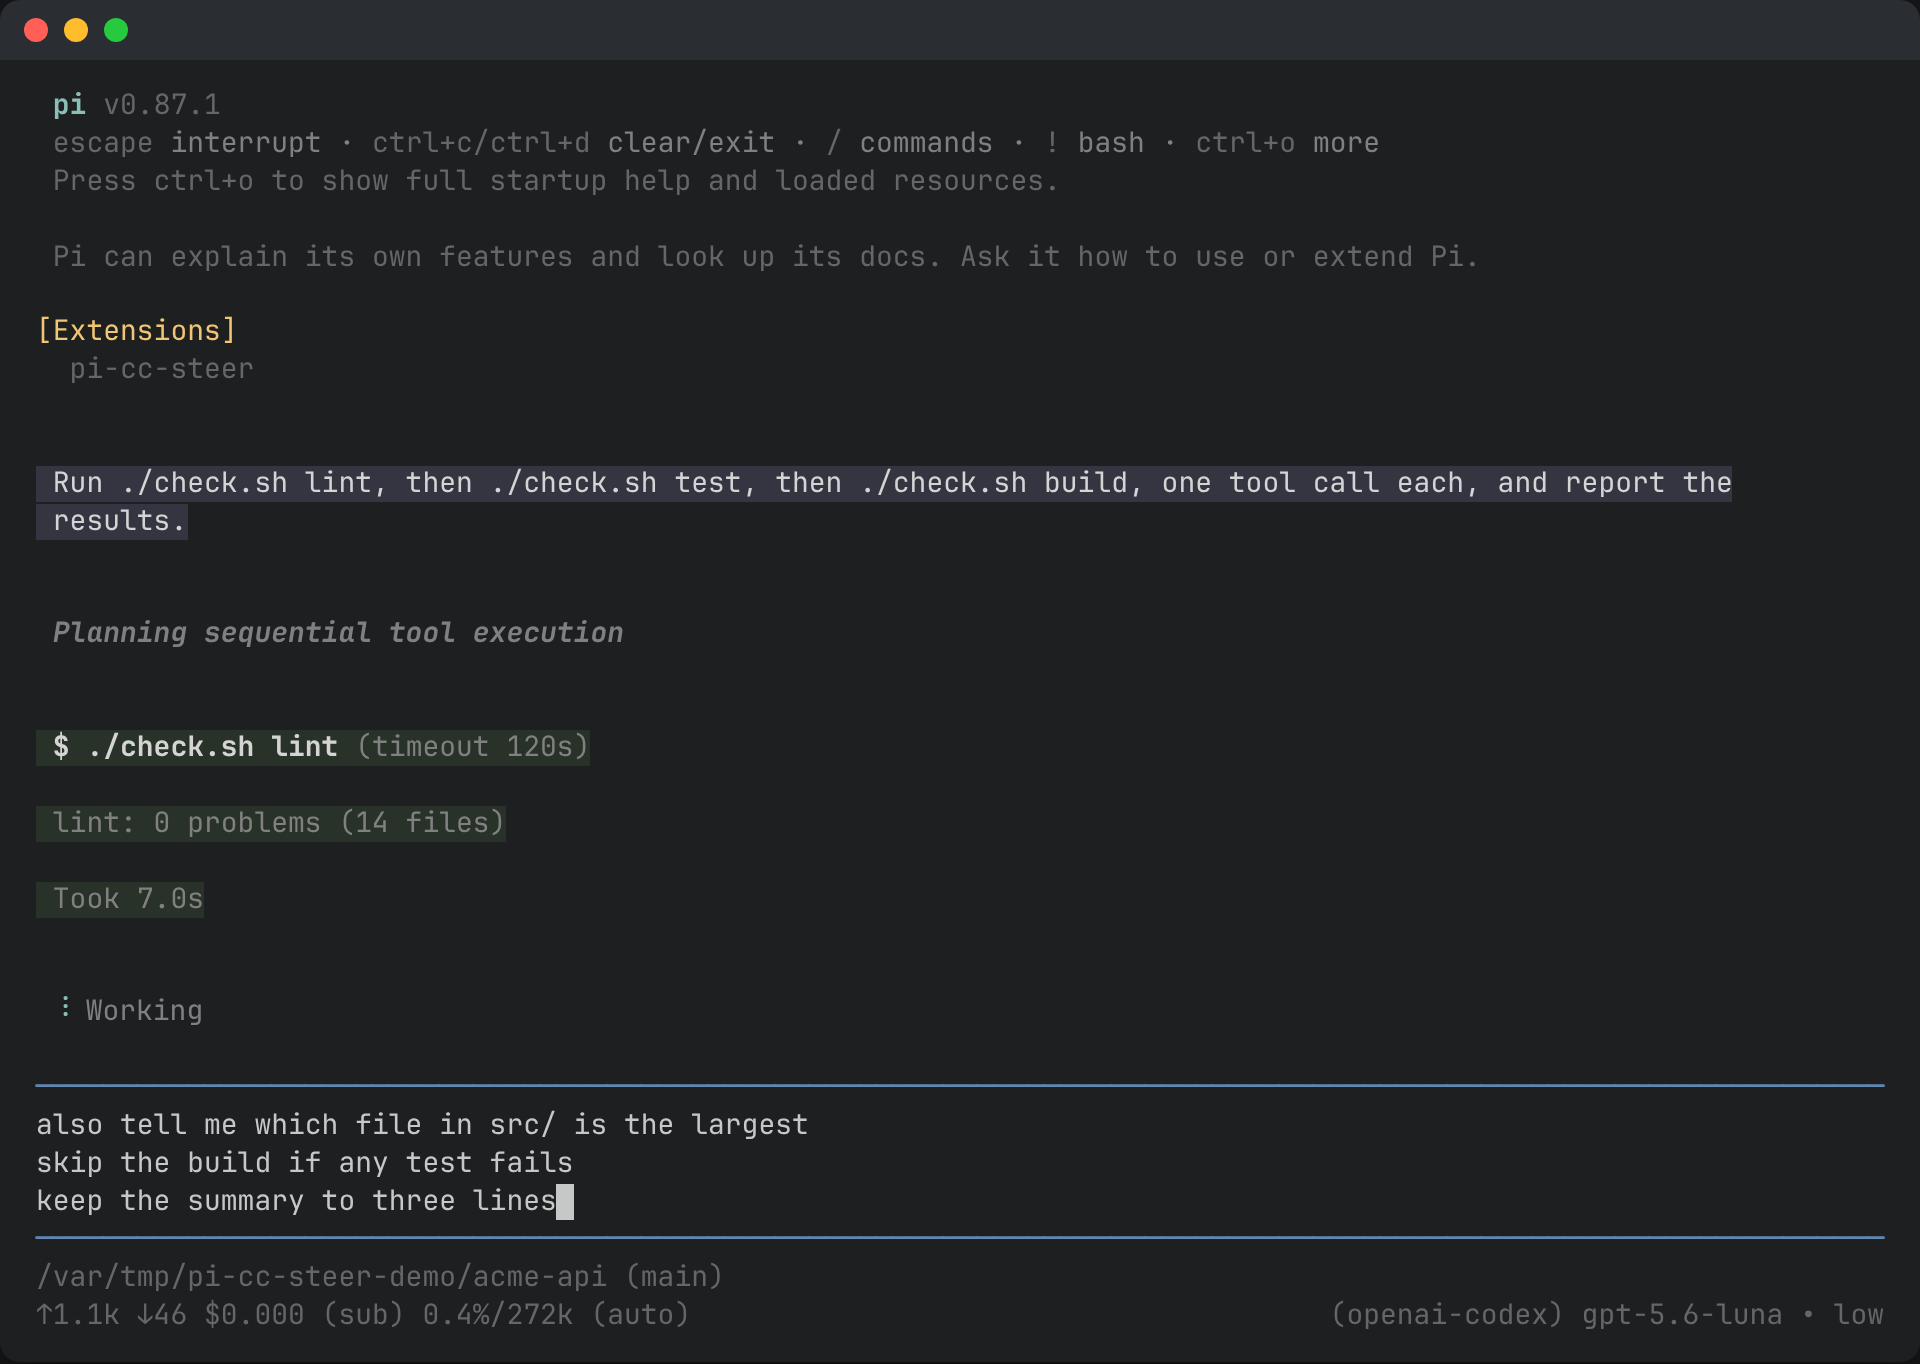
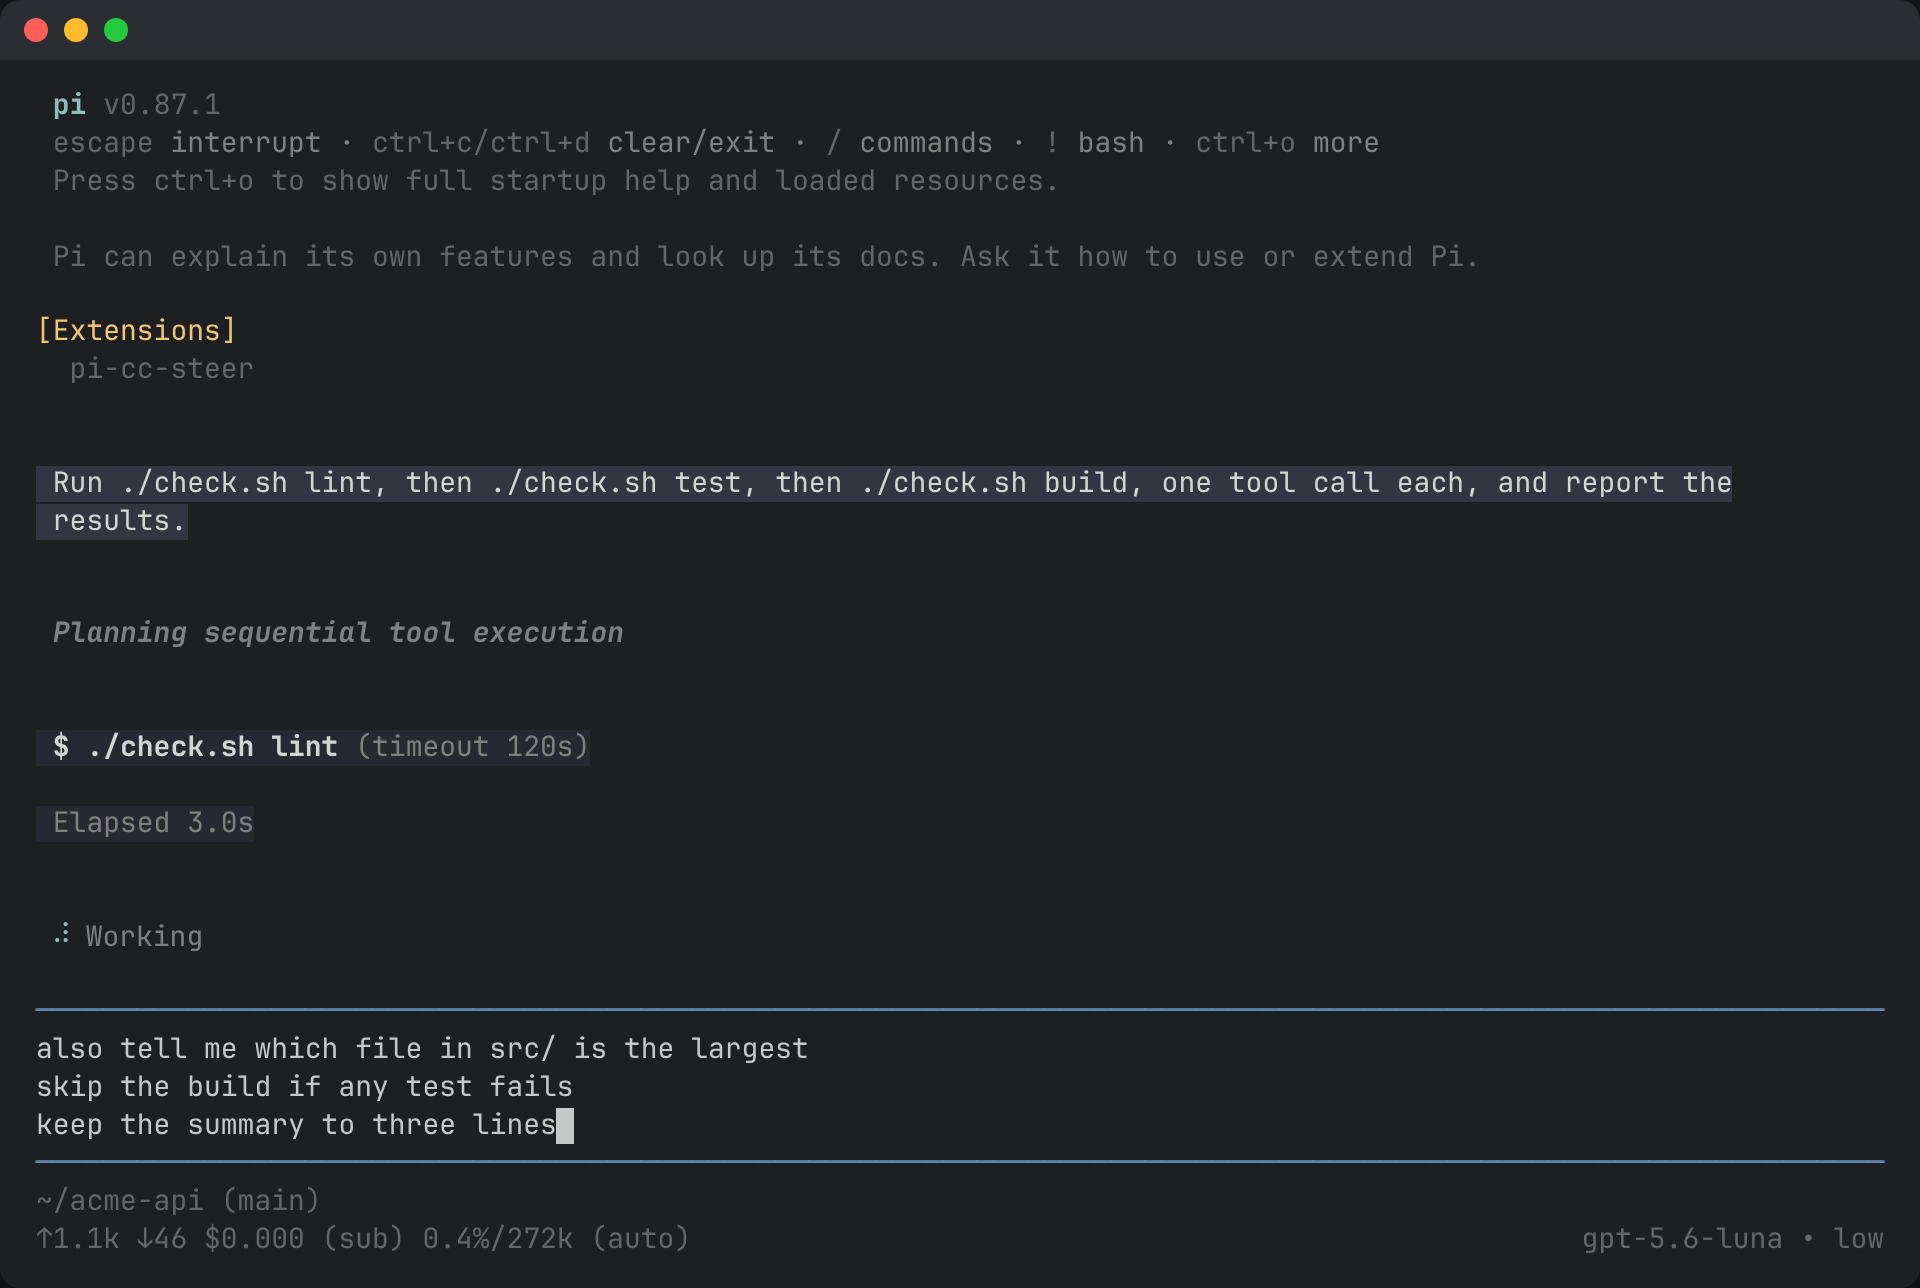
npm packaging: pi-package manifest with image, peer dependency, absolute README URLs; screenshots retaken on an isolated demo

diff --git a/README.md b/README.md
@@ -10,16 +10,16 @@ you said. Press ↑ at any point to pull the waiting messages back into the edit
 
 **1 · Typed while the agent works.** Three messages wait above the editor while `./check.sh lint` runs.
 
-![Three messages waiting above the editor while a tool runs](assets/1-queued.png)
+![Three messages waiting above the editor while a tool runs](https://raw.githubusercontent.com/panbergco/pi-cc-steer/main/assets/1-queued.png)
 
 **2 · ↑ to edit.** The waiting messages come back into the editor; the agent keeps working.
 
-![The waiting messages pulled back into the editor](assets/2-edit.png)
+![The waiting messages pulled back into the editor](https://raw.githubusercontent.com/panbergco/pi-cc-steer/main/assets/2-edit.png)
 
-**3 · Delivered together.** After the next tool call they go in as one message, and the model answers every point in the
-three-line summary that was asked for.
+**3 · Delivered together.** When `lint` finishes they go in as one message. The model plans the tests "with build skip",
+and ends with the three-line summary that was asked for, including the largest file.
 
-![The messages delivered as one and every point answered](assets/3-delivered.png)
+![The messages delivered as one and every point answered](https://raw.githubusercontent.com/panbergco/pi-cc-steer/main/assets/3-delivered.png)
 
 ## Why
 
@@ -40,9 +40,11 @@ Your transcript shows exactly what you typed; the framing is added only to what 
 ## Install
 
 ```bash
-pi install git:github.com/panbergco/pi-cc-steer        # every session
-pi install -l git:github.com/panbergco/pi-cc-steer     # this project only
+pi install npm:pi-cc-steer          # every session
+pi install -l npm:pi-cc-steer       # this project only
 ```
+
+Or straight from GitHub: `pi install git:github.com/panbergco/pi-cc-steer`.
 
 Then `/reload`, or start a new session. It needs no settings change and works with pi's default `steeringMode`.
 
